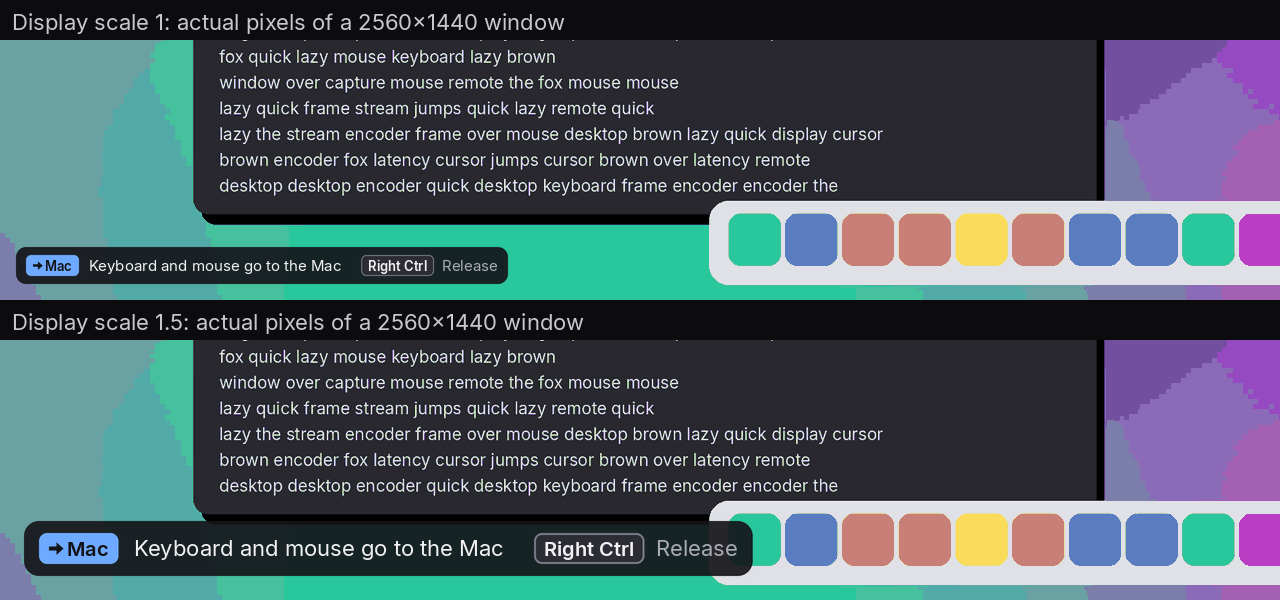
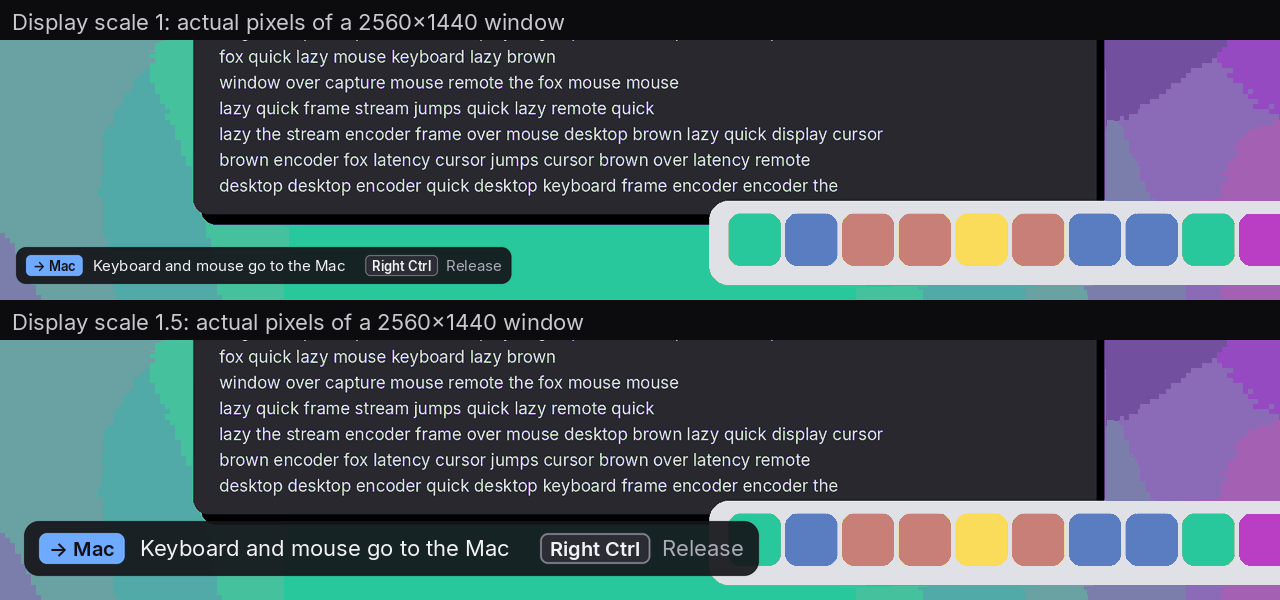
typography.md: list overlay strings that change and the tests on them
The e2e test and window.rs unit tests match on the old overlay text
("-> Mac", "Enter to retry"); list old -> new so the overlay step
updates them. The toast tag uses Inter's arrow glyph, as the table says.

Changed region(s): [[0.0312, 0.87, 0.5938, 0.96], [0.0312, 0.42, 0.4062, 0.48]]

diff --git a/docs/design/render_mockups.py b/docs/design/render_mockups.py
@@ -222,30 +222,24 @@ def card(p, area, title, body, detail, hints):
     hint_row(p, x0 + pad, y - gap + p.px(20) + cap_h / 2, hints)
 
 
-def tag(p, x, y_mid, label, colour, arrow=False):
-    """Coloured status tag: word (plus drawn arrow), never colour alone."""
+def tag(p, x, y_mid, label, colour):
+    """Coloured status tag with a word: never colour alone."""
     pad = p.px(7)
-    aw = p.px(12) if arrow else 0
     h = p.line_h("tag") + p.px(4)
-    w = p.width(label, "tag") + 2 * pad + aw
+    w = p.width(label, "tag") + 2 * pad
     y0 = round(y_mid - h / 2)
     p.rect((x, y0, x + w, y0 + h), p.px(5), colour)
     tx = x + pad
-    if arrow:
-        cy, s = y_mid, p.s
-        p.poly([(tx, cy - 1.2 * s), (tx + 5 * s, cy - 1.2 * s), (tx + 5 * s, cy - 4 * s), (tx + 9.5 * s, cy),
-                (tx + 5 * s, cy + 4 * s), (tx + 5 * s, cy + 1.2 * s), (tx, cy + 1.2 * s)], PRIMARY_TEXT)
-        tx += aw
     p.text_mid(tx, y_mid, label, "tag", PRIMARY_TEXT)
     return round(w)
 
 
-def badge(p, pic_rect, tag_label, colour, text, hints=(), arrow=False, detail=None):
+def badge(p, pic_rect, tag_label, colour, text, hints=(), detail=None):
     """Bottom-left pill inside the picture (clear of menu bar and Dock)."""
     px0, py0, pw, ph = pic_rect
     pad, inset = p.px(10), p.px(16)
     h = p.line_h("tag") + p.px(4) + 2 * p.px(8)
-    tw = p.width(tag_label, "tag") + 2 * p.px(7) + (p.px(12) if arrow else 0)
+    tw = p.width(tag_label, "tag") + 2 * p.px(7)
     w = tw + p.px(10) + p.width(text, "body")
     if hints:
         w += p.px(20) + hint_row_width(p, hints)
@@ -256,7 +250,7 @@ def badge(p, pic_rect, tag_label, colour, text, hints=(), arrow=False, detail=No
     y0 = y1 - h
     p.rect((x0, y0, x0 + w, y1), p.px(10), SURFACE)
     mid = y0 + h / 2
-    x = x0 + pad + tag(p, x0 + pad, mid, tag_label, colour, arrow) + p.px(10)
+    x = x0 + pad + tag(p, x0 + pad, mid, tag_label, colour) + p.px(10)
     p.text_mid(x, mid, text, "body", TEXT)
     x += p.width(text, "body")
     if hints:
@@ -296,8 +290,8 @@ def screen(name, base, pic_rect, fonts, scale):
         badge(p, pic_rect, "LOCAL", AMBER, "Input stays here",
               [(HOST_KEY, "Send input to the Mac", False)], detail="or click the picture")
     elif name == "toast":
-        badge(p, pic_rect, "Mac", BLUE, "Keyboard and mouse go to the Mac",
-              [(HOST_KEY, "Release", False)], arrow=True)
+        badge(p, pic_rect, "→ Mac", BLUE, "Keyboard and mouse go to the Mac",
+              [(HOST_KEY, "Release", False)])
     elif name == "login":
         badge(p, pic_rect, "VIEW ONLY", AMBER, "The Mac is at the login window",
               detail="Log in at the Mac, or with Screen Sharing, to take control")

diff --git a/docs/design/typography.md b/docs/design/typography.md
@@ -91,6 +91,26 @@ title / body / hint hierarchy:
 The reconnecting screen now shows Enter: the client already retries on Enter
 while reconnecting, but the old text only said "Esc to quit".
 
+### Strings that change, and the checks on them
+
+When the overlay moves to this copy, update the tests that look for the old
+text: the unit tests in `crates/linux-client/src/window.rs` and the e2e test
+`scripts/e2e-fake-host.sh`, which greps the overlay state from the test hook.
+
+| Old (`window.rs` on `main`) | New | Checked by |
+|---|---|---|
+| `LOCAL - Right Ctrl to grab` | tag `LOCAL`, body `Input stays here`, hint *host key* `Send input to the Mac`, detail `or click the picture` | e2e line 94 (`LOCAL`: still matches), unit test `contains("LOCAL")` (still matches) |
+| `-> Mac - Right Ctrl releases` | tag `→ Mac` (Inter's U+2192), body `Keyboard and mouse go to the Mac`, hint *host key* `Release` | e2e line 99 (`-> Mac`: **breaks**, grep for `→ Mac`), unit test `contains("-> Mac")` (**breaks**) |
+| `Connection lost - reconnecting (attempt N)...` | title `Connection lost`, body `Reconnecting to <host> (attempt N)…` | unit test `contains("attempt 2")` (still matches) |
+| `Esc to quit` | hints `Enter` `Reconnect now` (primary), `Esc` `Quit` | none |
+| `Disconnected` | title `Disconnected from <host>`, body `No connection for a minute, so it stopped trying.` | none |
+| `Enter to retry, Esc to quit` | hints `Enter` `Retry` (primary), `Esc` `Quit` | unit test `contains("Enter to retry")` (**breaks**: check for an `Enter` hint with action `Retry`) |
+| `Connection stalled...` | not in the mockups; keep as a badge: tag `STALLED`, body `No new picture from the Mac` | none |
+
+The state the test hook reports should keep tags, body and hints as separate
+fields, so tests can check "the primary hint is Enter → Retry" instead of
+matching a whole sentence.
+
 ## Mockups
 
 In [`mockups/`](mockups/), each with display scale 1.0 (top) and 1.5
